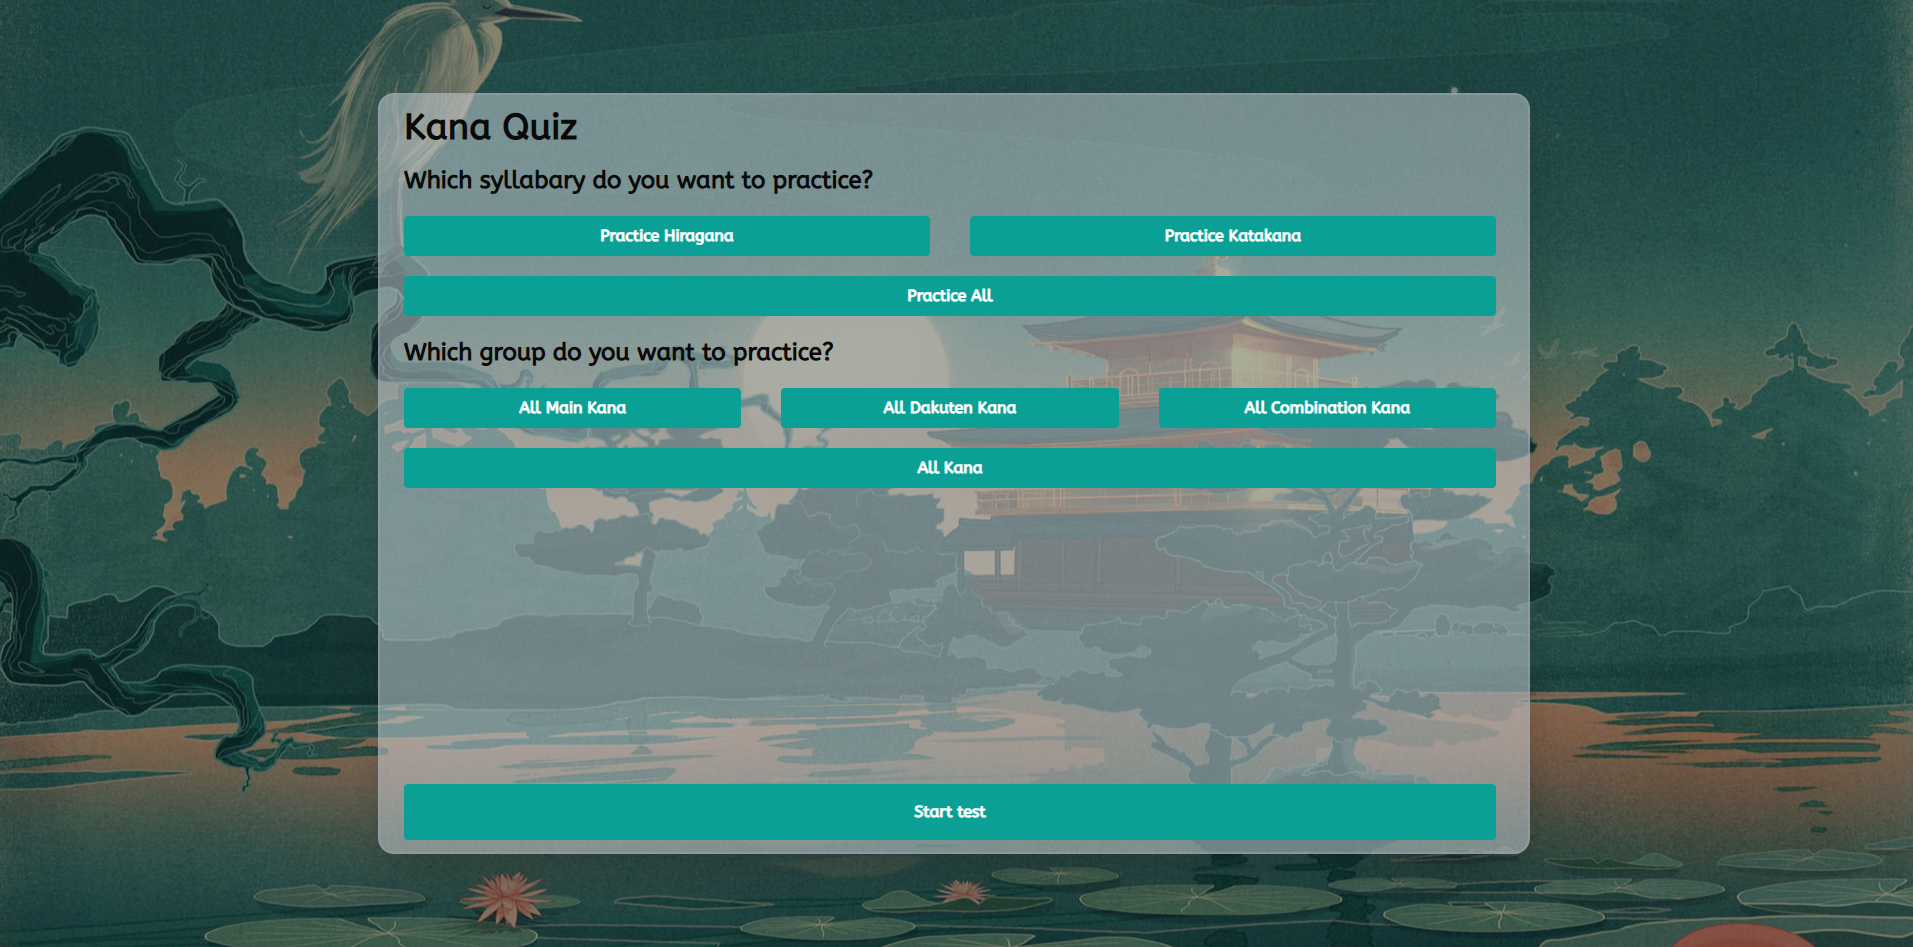
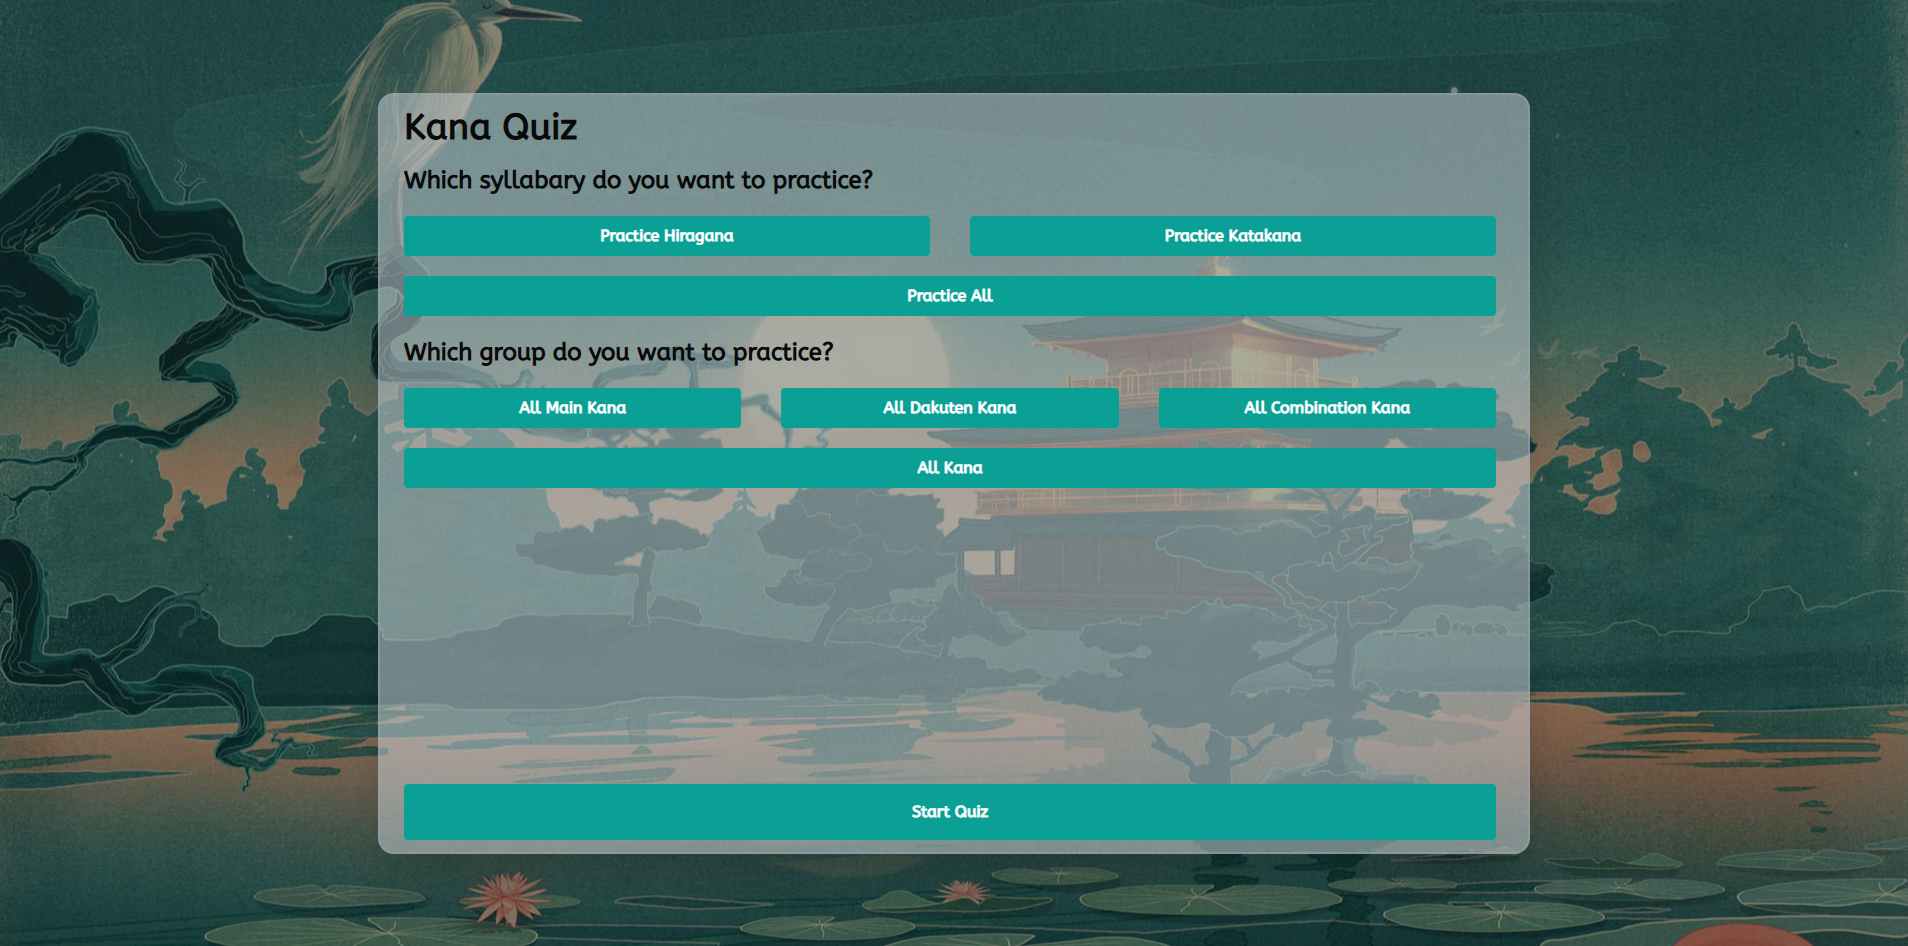
fix: change button text and markdown image

diff --git a/src/components/states/Default.tsx b/src/components/states/Default.tsx
@@ -105,7 +105,7 @@ export const Default = () => {
             mode={GameFiltersEnum.START_BUTTON}
             onClick={handleClick}
           >
-            Start test
+            Start Quiz
           </ButtonMenu>
         </div>
       </div>
